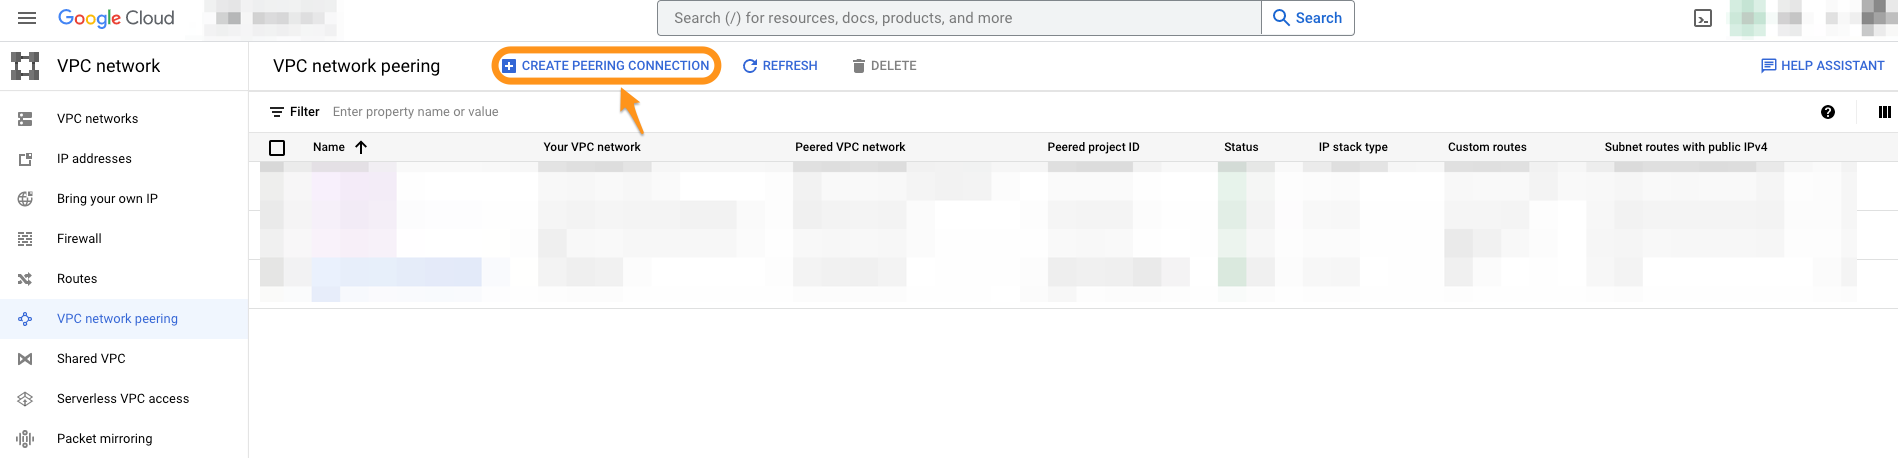
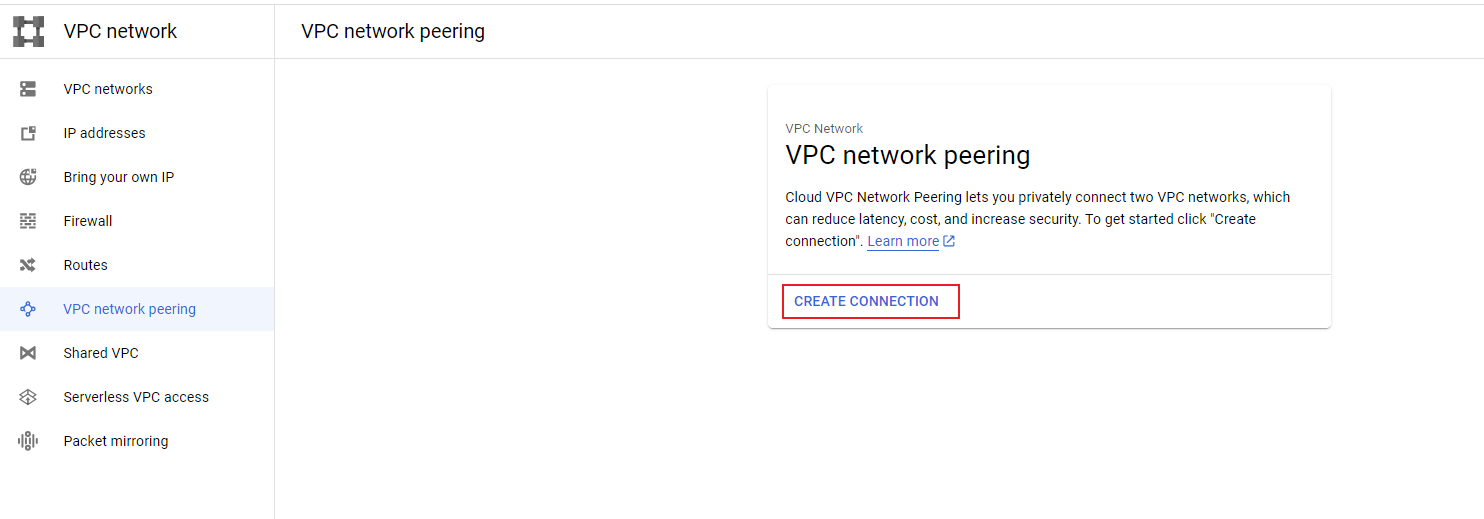
updating VPC peering with new pngs and process

diff --git a/content/04VPC_Peering/4_Task3.md b/content/04VPC_Peering/4_Task3.md
@@ -10,8 +10,13 @@ weight: 3
 efore creating peerings go back and review the routing. Any new VPC Network is created with a default route via default internet gateway. As you will be creating a peering between the web server VPC and the FortiGate VPC, the desired routing is via FortiGate. To avoid routing conflict you must delete the automatically created default route.
 
 1. Open the VPC network details page for "qwiklabs-webserver-public-vpc" 
-2. Click the "ROUTES" tab
+2. Click the "ROUTES" tab. In the Region drop down, select "us-central1" and click **VIEW**
+
+![rt-man](rt-man.png)
+
 3. Select the "Default route to Internet" and click "Delete" button
+
+![def-rt-sel](def-rt-sel.png)
 
 ![vpc_delete_default_route](vpc_delete_default_route.png)
 
@@ -19,21 +24,17 @@ efore creating peerings go back and review the routing. Any new VPC Network is c
 
 **Now it's time to create the VPC peerings:**
 
-1. Still in , Open VPC network peering page from the Console under the "VPC Network" menu
-
-![vpc_network_peering](vpc_network_peering.png)
-
-2. Click on "Create Peering Connection"
+1. Open VPC network peering page from the Console under the "VPC Network" menu and select **Creat Peering Connection**
 
 ![create_peering_connection](create_peering_connection.png)
 
-3. Click Continue
-4. Give a name to the Peering Connection
-5. Select the vpc networked named **qwiklabs-webserver-public-vpc-"xxx"**
-6. Under **Peered VPC network** select **In project** and select the fortigate internal vpc network name **fgt-qlabs-internal-vpc**
-7. Under **Exchange IPv4 custom routes**, select **Import Custom Routes**
-8. Ignore the defaults which are selected.
-9. Click Create.
+2. Click Continue
+3. Give a name to the Peering Connection
+4. Select the vpc networked named **qwiklabs-webserver-public-vpc-"xxx"**
+5. Under **Peered VPC network** select **In project** and select the fortigate internal vpc network name **fgt-qlabs-internal-vpc**
+6. Under **Exchange IPv4 custom routes**, select **Import Custom Routes**
+7. Ignore the defaults which are selected.
+8. Click Create.
 
 ![vpc_peering_details_2](vpc_peering_details_2.png)
 
@@ -48,4 +49,4 @@ You will notice the Status of the VPC Peering as "inactive" until you create the
 
 
 
-Within couple of seconds you will notice Status change to "Active" with Green Tick Icon, and routes being exchanged.
+{{% notice note %}} Within couple of seconds you will notice Status change to "Active" with Green Tick Icon, and routes being exchanged.  You may need to click the refresh button. {{% /notice %}}

diff --git a/content/04VPC_Peering/2_Task1.md b/content/04VPC_Peering/2_Task1.md
@@ -1,27 +1,19 @@
 ---
-title: "Clone Repo"
-menuTitle: "Clone Repo"
+title: "Change Directory and Open Editor"
+menuTitle: "Change Repo Directory"
 chapter: false
 weight: 1
 ---
 
-### Clone github repository 
+All code for this lab can be found in the same repo you cloned in the Automation lab above
 
-All code for this lab is hosted in a public git repository. To use it start by creating a local copy of its contents.
-
-1.	Run the following command in your Cloud Shell to clone the git repository contents:
+1.	Change current working directory to **/GCP-supporting-resources/vpc-peering** inside the cloned repository:
 
 ```sh
-cd
-git clone https://github.com/fortinetsolutions/terraform-modules.git
-```
-2.	Change current working directory to **GCP/qwiklabs/vpc-peering** inside the cloned repository:
-
-```sh
-    cd terraform-modules/GCP/qwiklabs/vpc-peering
+    cd ~/GCP-supporting-resources/vpc-peering
 ```
 
-3. In the **Cloud Shell Editor** part of your Cloud Shell tab choose **File > Open** from the top menu and open the **terraform-modules/GCP/qwiklabs/vpc-peering** folder. Cloud Shell Editor will be useful to navigate, review and edit terraform code during this lab.
+2. In the **Cloud Shell Editor** part of your Cloud Shell tab choose **File > Open** from the top menu and open the **GCP-supporting-resources/vpc-peering** folder. Cloud Shell Editor will be useful to navigate, review and edit terraform code during this lab.
 
 For the Terraform, each directory containing **.tf** files is a module. A directory in which you run terraform command is the *root module* and can contain *submodules*. In this lab you will deploy a root module: **vpc-peering** containing submodules.
 

diff --git a/content/03Automation/2_Task1.md b/content/03Automation/2_Task1.md
@@ -14,13 +14,13 @@ All code for this lab is hosted in a public git repository. To use it start by c
 1.	Run the following command in your Cloud Shell to clone the git repository contents:
 
 ```sh
-    git clone https://github.com/fortidg/se-summit-23.git
+    git clone https://github.com/FortinetCloudCSE/GCP-supporting-resources.git
 ```
 
 2.	Change current working directory to **labs/day0** inside the cloned repository:
 
 ```sh
-cd se-summit-23/qwiklabs-fgt-terraform-lab/labs/day0
+cd GCP-supporting-resources/automation-A_P/labs/day0
 ```
 3. If Using the **Legacy Editor**, choose **File > Open** from the top menu and open the **qwiklabs-fgt-terraform/labs** folder. Cloud Shell Editor will be useful to navigate, review and edit terraform code during this lab.
 
@@ -29,7 +29,7 @@ cd se-summit-23/qwiklabs-fgt-terraform-lab/labs/day0
 4. If Using the **New Editor**, choose **File > Open Folder** from the top menu.  In the Open Folder window enter the below command
 
 ```sh
-/home/dgooch/se-summit-23/qwiklabs-fgt-terraform-lab/labs/
+/home/dgooch/GCP-supporting-resources/automation-A_P/labs/
 
 ```
 5. You will then be able to navigate and edit files in the folder

diff --git a/content/01GettingStarted/Enable-compute-API.md b/content/01GettingStarted/Enable-compute-API.md
@@ -1,10 +1,10 @@
 ---
 title: "Task 1 - Compute Engine API "
-menuTitle: "Enable API"
+menuTitle: "Enable APIs"
 weight: 5
 ---
 
-## Task 2 Enable Compute Engine API
+## Task 2 Enable Compute Engine APIs
 
 Using the link from the email, login to the GCP console using your Fortinet AD Credentials.
 
@@ -21,7 +21,7 @@ Using the link from the email, login to the GCP console using your Fortinet AD C
       - On the top right hand side of the screen, click on the Activate Cloud Shell icon 
       ![en-shell](en-shell.png)
 
-      - This will open a cloud shell at the bottom of the screen.  You will need to be sure that you are in the correct project using the below command:
+      - This will open a cloud shell at the bottom of the screen.  You will need to be sure that you are in the correct project using the below command (authorize as necessary):
 
       ```
       gcloud config set project <project-id>

diff --git a/content/04VPC_Peering/3_Task2.md b/content/04VPC_Peering/3_Task2.md
@@ -47,4 +47,4 @@ After `terraform apply` command completes you will see several output values whi
 
 ### Reviewing the deployment
 Once everything is deployed you can see the sample page of the Web Server when you enter the External IP of the Compute Engine Instance.
-{{% notice note %}} It is recommended not to have an External IP for this Web Server. {{% /notice %}}
+{{% notice note %}} In a production environment, it is recommended that an External IP address for a web server be locked down to specific hosts and/or protected by a Web application firewall such as FortiWeb.  For the purpose of this lab, the public IP is left in place for troubleshooting. {{% /notice %}}
